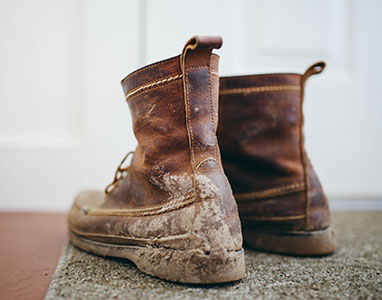
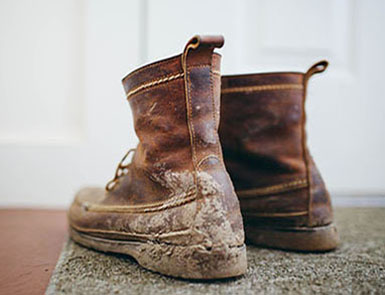
added copy and image to Outbound Marketing box on home page
tweaked cropping of other images

diff --git a/css/style.css b/css/style.css
@@ -334,7 +334,7 @@ header ul.nav li a {
 
 .box-gray p {
 	color: black;
-	margin-bottom: 20px;
+	margin-bottom: 30px;
 }
 
 .box-gray  h4 {

diff --git a/home/index.php b/home/index.php
@@ -32,16 +32,27 @@
 						<div class="col-lg-4">
 							<div class="box">
 								<div class="box-top box-one-top">
-									<a href="../inbound-marketing/index.php" title="click to Read More">InBound Marketing</a>
+									<a href="../inbound-marketing/index.php" title="click to Learn More">InBound Marketing</a>
 								</div>
 								<div class="">
-									<img src="../img/works/1.jpg" alt="???" title="???" />
+									<img src="../img/woman-using-computer.jpg" alt="???" />
 								</div>
 								<div class="box-gray">
-									<h4 class="aligncenter">?Title?</h4>
+									<h4 class="aligncenter">What is InBound Marketing?</h4>
 									<p>
-										copy here
+										Inbound Marketing can be defined as marketing activities that bring visitors IN, rather than marketers going OUT to get protential customer's attention.
+										Clients are attracted to your online presents by knowledgeable, informative, or valued content, easily found search engine links or key words,
+										shared content on social media networks, and personalized emails. Inbound Marketing is effective for both small and large businesses as
+										an affordable method of reaching a larger amount of local and distant viewers
+										than offered by traditional direct marketing.<br/><br/>
+										In short, Inbound Marketing creates on-demand experiences for your
+										clients that match how and when they want to interact with your services.
+										Successful Inbound Marketing designers and marketers attract, convert, and engage end-users.
+
 									</p>
+									<div class="aligncenter">
+										<a class="btn-theme" alt="Learn more" href="../inbound-marketing/index.php" title="click to Learn More">Learn More</a>
+									</div>
 								</div>
 							</div>
 							<!-- .box -->
@@ -54,16 +65,24 @@
 						<div class="col-lg-4">
 							<div class="box">
 								<div class="box-top box-two-top">
-									<a href="../../outbound-marketing/index.php" title="click to Read More">OutBound Marketing</a>
+									<a href="../outbound-marketing/index.php" title="click to Learn More">OutBound Marketing</a>
 								</div>
 								<div class="">
-									<img src="../img/works/2.jpg" alt="???" title="???" />
+									<img src="../img/magazine-rack.jpg" alt="???" />
 								</div>
 								<div class="box-gray">
-									<h4 class="aligncenter">?Title?</h4>
+									<h4 class="aligncenter">What is OutBound Marketing?</h4>
 									<p>
-										copy here
+										Outbound Marketing, or traditional marketing, can include print advertisements, such as newsletters, billboards, flyers and magazine
+										print ads. Other forms of traditional marketing include television commercials, as well as radio spots
+										advertising a business, product, or service. With traditional marketing, anyone with a newspaper, mail service, television, or radio can learn of your business or service.
+										You bring your business or service to potential customers with print advertisements and other traditional printed methods.<br/><br/>
+										Using traditional marketing as a supplement to innovative marketing methods is an effective way to interact with your customers, offer
+										special promotions, and increasing your online presence by advertising your company's blog or social media feed.
 									</p>
+									<div class="aligncenter">
+										<a class="btn-theme" alt="Learn more" href="../outbound-marketing/index.php" title="click to Learn More">Learn More</a>
+									</div>
 								</div>
 							</div>
 							<!-- .box -->
@@ -76,7 +95,7 @@
 						<div class="col-lg-4">
 							<div class="box">
 								<div class="box-top box-three-top">
-									<a href="../cognitive-marketing/index.php" title="click to Read More">Cognitive Marketing</a>
+									<a href="../cognitive-marketing/index.php" title="click to Learn More">Cognitive Marketing</a>
 								</div>
 								<div class="">
 									<img src="../img/dirty-boots.jpg" alt="dirty-boots" />
@@ -85,13 +104,12 @@
 									<h4 class="aligncenter">What is a Cognitive Marketing approach to Design?</h4>
 									<p>
 										Simply put, it means to design with intent&mdash;to solve problems by thinking about the situation from many view points.
-										A designer views the situation from a cognitive lens that draws on how users make interactive decisions.
-										The designer approaches problem solving as a science, rather than an art, providing a practical set of collaborative tools
+										In Cognitive Design, a designer approaches problem solving as a science, rather than an art, providing a practical set of collaborative tools
 										and methods for planning and defining a successful designed product.
-										It goes back to the thought that often in life a square peg is placed in a round hole or a one-size-fits-all thought process.
+										It goes back to the traditional thought that a square peg will fit into a round hole or a one-size-fits-all thought process.
 										Where there is one answer for many solutions. With Cognitive Design or Design Thinking many possible answers are reviewed
-										for one solution to one root-cause situation. Design in its most utilized form is a process, an action, a verb—a tool for solving problems and discovering new opportunities.<br/>
-										<br/>Question: How do you keep people from bringing mud into the house?<br/>
+										for one solution to one root-cause situation.<br/>
+										<br/>Question: How do you keep people from bringing mud into the house?<br/><br/>
 										Answer: Why is it muddy outside?
 									</p>
 									<div class="aligncenter">
